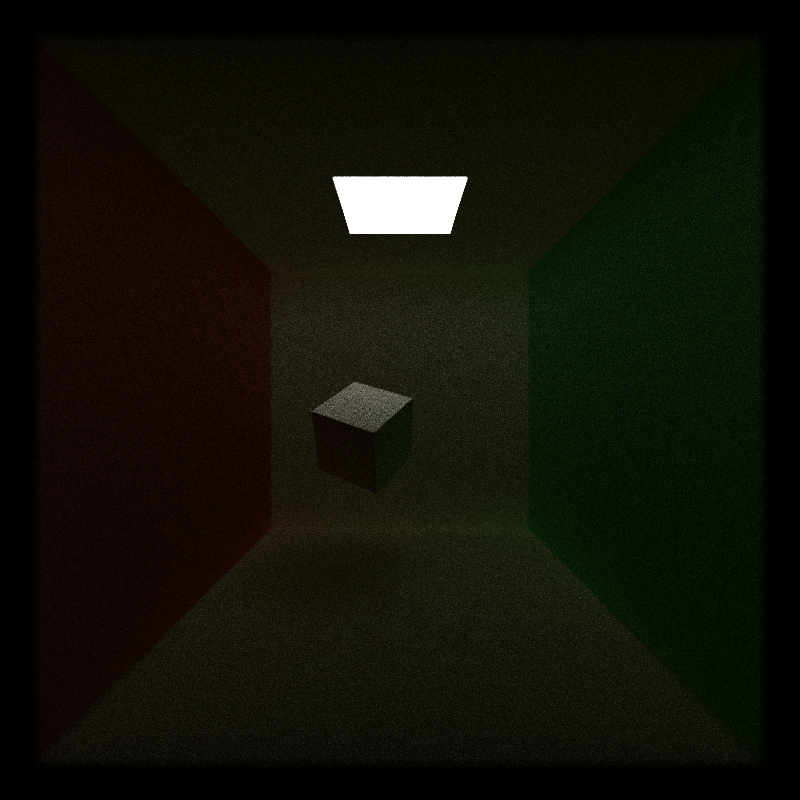
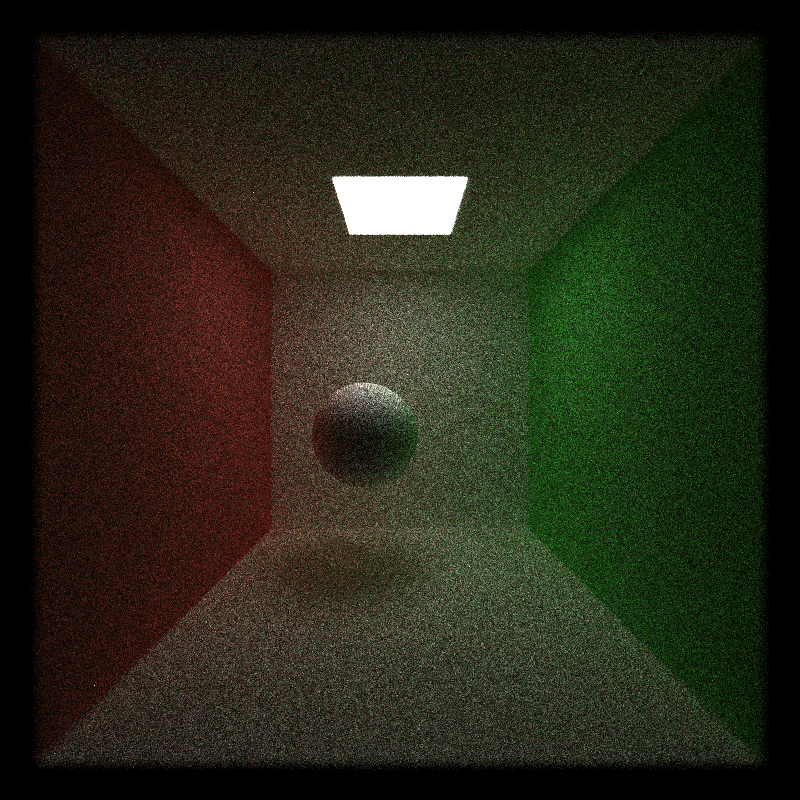
fix: correct material appeareance

diff --git a/src/material.h b/src/material.h
@@ -27,6 +27,7 @@ struct BSDFSample {
         wi(wi), pdf(pdf), flags(flags), bsdf(bsdf) {}
 };
 CPUGPU inline float fresnelSchlick(float cosTheta, float f0) {
+	f0 = (1.f - f0) / (1.f + f0);
 	return f0 + (1.f - f0) * glm::pow(1.f - cosTheta, 5.f);
 }
 CPUGPU inline glm::vec3 fresnelSchlick(float cosTheta, glm::vec3 f0) {
@@ -45,9 +46,9 @@ CPUGPU inline float fresnelDielectric(float cosThetaI, float eta) {
 		return 1.f;
 	}
 	float cosThetaT = glm::sqrt(glm::max(0.f, 1.f - sinThetaT * sinThetaT));
-	float Rparl = ((eta * cosThetaI) - (cosThetaT)) / ((eta * cosThetaI) + (cosThetaT));
-	float Rperp = ((cosThetaI)-(eta * cosThetaT)) / ((cosThetaI)+(eta * cosThetaT));
-	return (Rparl * Rparl + Rperp * Rperp) / 2.f;
+	float Rparl = (eta * cosThetaI - cosThetaT) / (eta * cosThetaI + cosThetaT);
+	float Rperp = (cosThetaI - eta * cosThetaT) / (cosThetaI + eta * cosThetaT);
+	return (Rparl * Rparl + Rperp * Rperp) * 0.5f;
 }
 CPUGPU inline bool refract(const glm::vec3& wi, const glm::vec3& n, float eta, glm::vec3& wt) {
 	float cosThetaI = glm::dot(n, wi);
@@ -61,6 +62,9 @@ CPUGPU inline bool refract(const glm::vec3& wi, const glm::vec3& n, float eta, g
 		return false;
 	}
 	float cosThetaT = glm::sqrt(1.f - sin2ThetaT);
+	if (cosThetaI < 0) {
+		cosThetaT *= -1;
+	}
 	wt = glm::normalize(-wi / eta + (cosThetaI / eta - cosThetaT) * n);
 	return true;
 }
@@ -161,7 +165,8 @@ struct Material
 		return 0.f;
 	}
 	CPUGPU void DielectricSampleBSDF(glm::vec3 n, glm::vec3 wo, glm::vec3 r, BSDFSample& sample) {
-		float reflection_prob = fresnelSchlick(glm::dot(n, wo), indexOfRefraction);
+		float reflection_prob = fresnelDielectric(glm::dot(n, wo), indexOfRefraction);
+
 		if (r.z < reflection_prob) {
 			sample.wi = glm::reflect(-wo, n);
 			sample.flags = BxDFFlags::SpecularReflection;

diff --git a/src/scene.h b/src/scene.h
@@ -38,13 +38,19 @@ public:
 		return materials[index];
 	}
 
+	GPU float getPrimitiveArea(int id) {
+		glm::vec3 v0 = vertices[id * 3 + 0];
+		glm::vec3 v1 = vertices[id * 3 + 1];
+		glm::vec3 v2 = vertices[id * 3 + 2];
+
+		return triangleArea(v0, v1, v2);
+	}
 	GPU float intersectByIndex(const Ray& r, int index, glm::vec3& bray) {
 		glm::vec3 v0 = vertices[index * 3];
 		glm::vec3 v1 = vertices[index * 3 + 1];
 		glm::vec3 v2 = vertices[index * 3 + 2];
 		return triangleIntersectionTest(v0, v1, v2, r, bray);
 	}
-
 	GPU void updateIntersection(const Ray& r, ShadeableIntersection& isect,const glm::vec3& bary, float min_T) {
 		if (isect.primitiveId != -1) {
 			int min_index = isect.primitiveId;
@@ -54,11 +60,11 @@ public:
 			glm::vec3 n0 = normals[min_index * 3];
 			glm::vec3 n1 = normals[min_index * 3 + 1];
 			glm::vec3 n2 = normals[min_index * 3 + 2];
-			isect.surfaceNormal = n0 * bary.x + n1 * bary.y + n2 * bary.z;
+			isect.surfaceNormal = glm::normalize(n0 * bary.x + n1 * bary.y + n2 * bary.z);
 			glm::vec2 uv0 = uvs[min_index * 3];
 			glm::vec2 uv1 = uvs[min_index * 3 + 1];
 			glm::vec2 uv2 = uvs[min_index * 3 + 2];
-			isect.uv = uv0 * bary.x + uv1 * bary.y + uv2 * bary.z;
+			isect.uv = glm::normalize(uv0 * bary.x + uv1 * bary.y + uv2 * bary.z);
 		}
 		else {
 			isect.t = -1;

diff --git a/src/sceneStructs.h b/src/sceneStructs.h
@@ -39,7 +39,9 @@ struct Ray
         return origin + t * direction;
     }
 };
-
+CPUGPU inline Ray makeSteppedRay(glm::vec3& p, glm::vec3& dir) {
+    return Ray{ p + EPSILON * dir, dir };
+}
 struct Camera
 {
     glm::ivec2 resolution;
